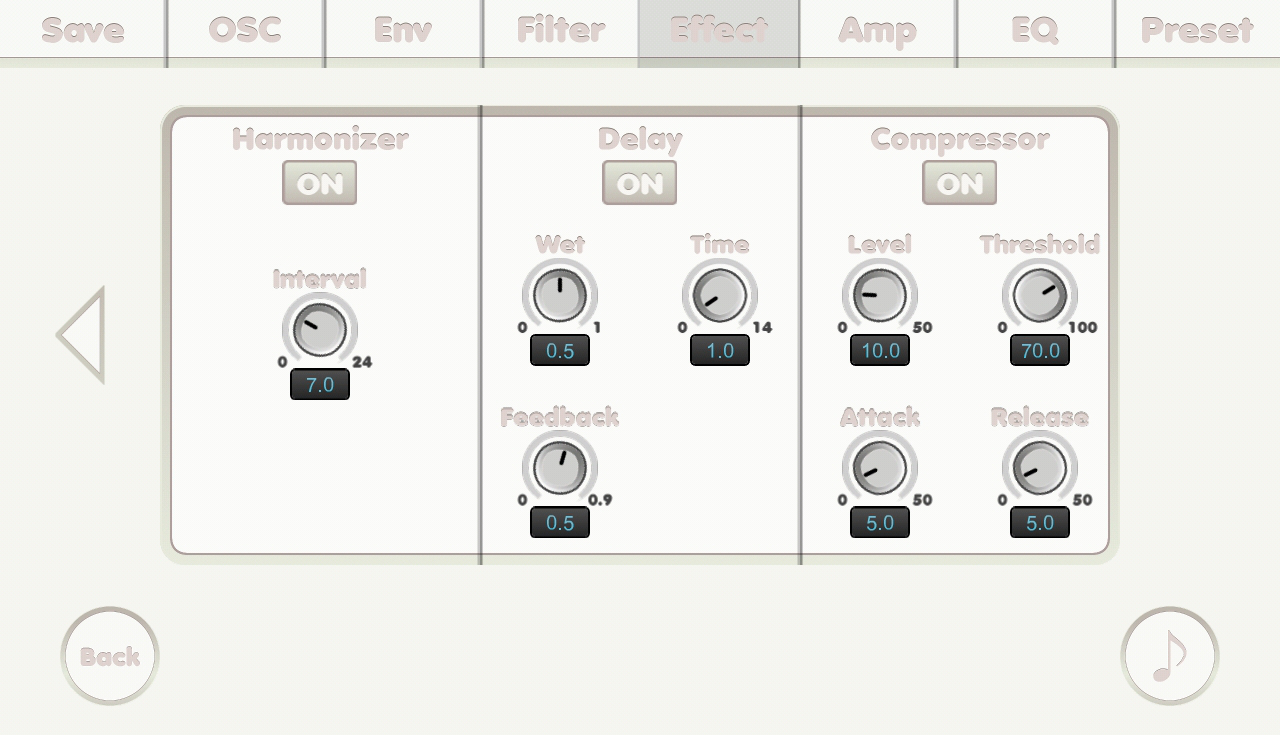
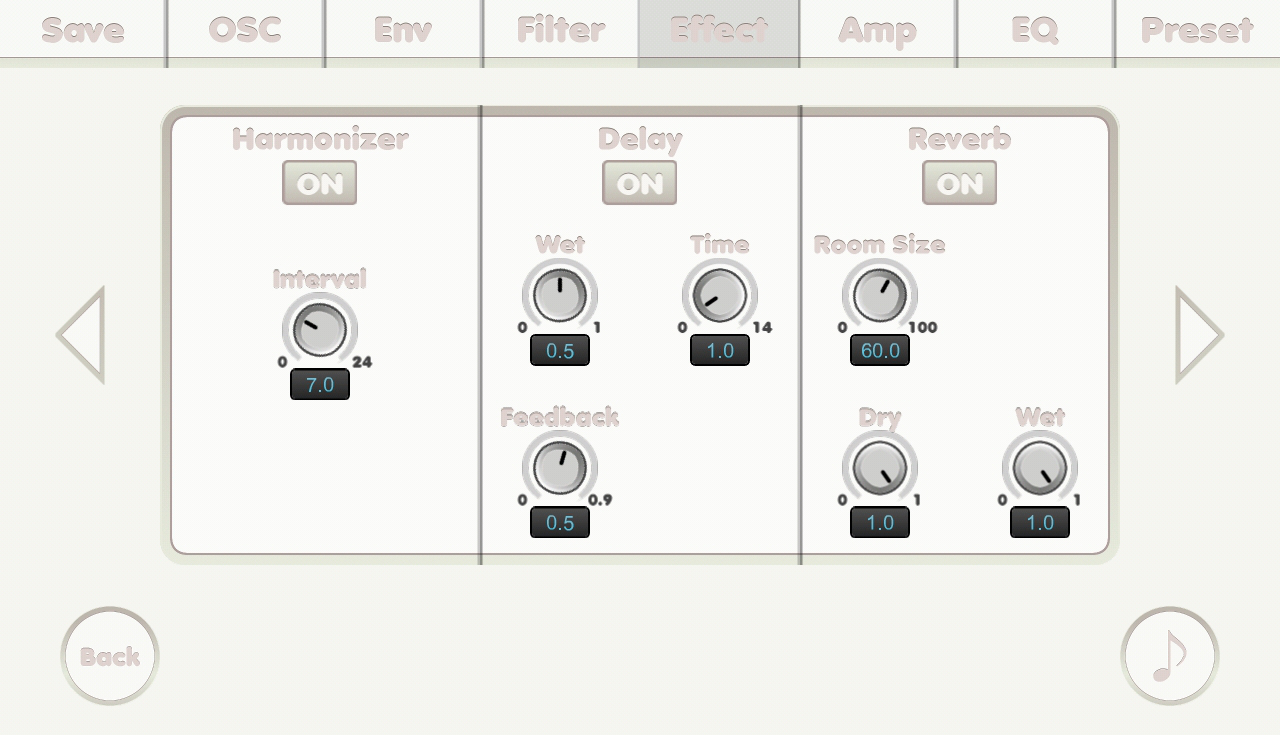
updated: reverb

diff --git a/gameSoundFX/effect.2.html b/gameSoundFX/effect.2.html
@@ -1,0 +1,19 @@
+---
+layout: page
+title: Game Sound FX Generator Effect screen(3)
+tagline: "Game Sound FX Generator"
+tags : [Game Sound FX Generator]
+---
+{% include JB/setup %}
+
+<h2>Effect screen(3)</h2>
+<img src="./images/effect.2.jpg" alt="Effect screen(3)"><br><hr><br>
+<ul class="posts">
+    <li>ON button: to turn the effect on.</li>
+	<li>Level knob: level.</li>
+	<li>Threshold knob: threshold.</li>
+	<li>Attack knob: attack time in millisecond.</li>
+	<li>Release knob: release time in millisecond.</li>
+	<li>Swipe horizontally to go to another page.</li>
+</ul>
+<br><hr><br>

diff --git a/gameSoundFX/effect.1.html b/gameSoundFX/effect.1.html
@@ -14,10 +14,9 @@ tags : [Game Sound FX Generator]
 	<li>Wet knob: 0 is 100% DRY and 1 is 100% WET.</li>
 	<li>Time knob: delay time in second.</li>
 	<li>Feedback knob: feedback.</li>
-	<li>Level knob: level.</li>
-	<li>Threshold knob: threshold.</li>
-	<li>Attack knob: attack time in millisecond.</li>
-	<li>Release knob: release time in millisecond.</li>
-	<li>Swipe horizontally to go to another page.</li>
+	<li>Room size knob: room size.</li>
+	<li>Dry knob: dry level.</li>
+	<li>Wet knob: wet level.</li>
+	<li>Swipe horizontally to go to other pages.</li>
 </ul>
 <br><hr><br>
